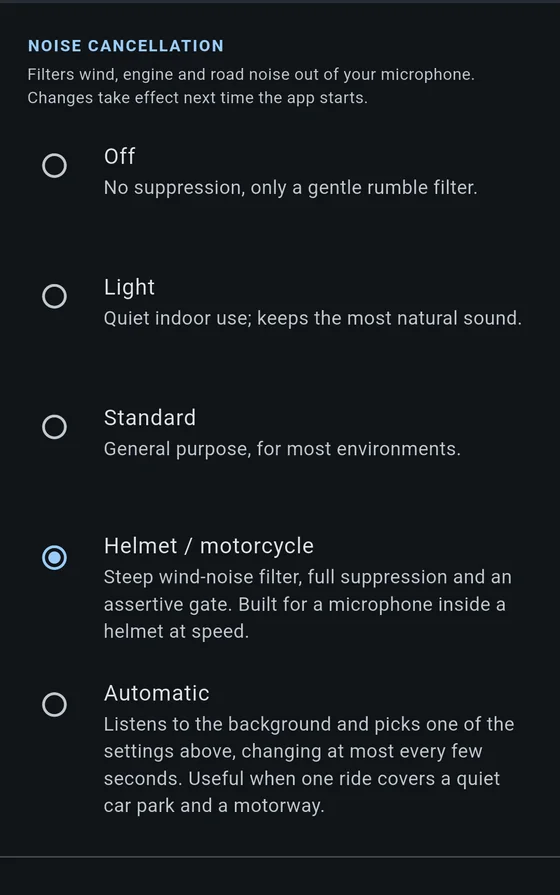
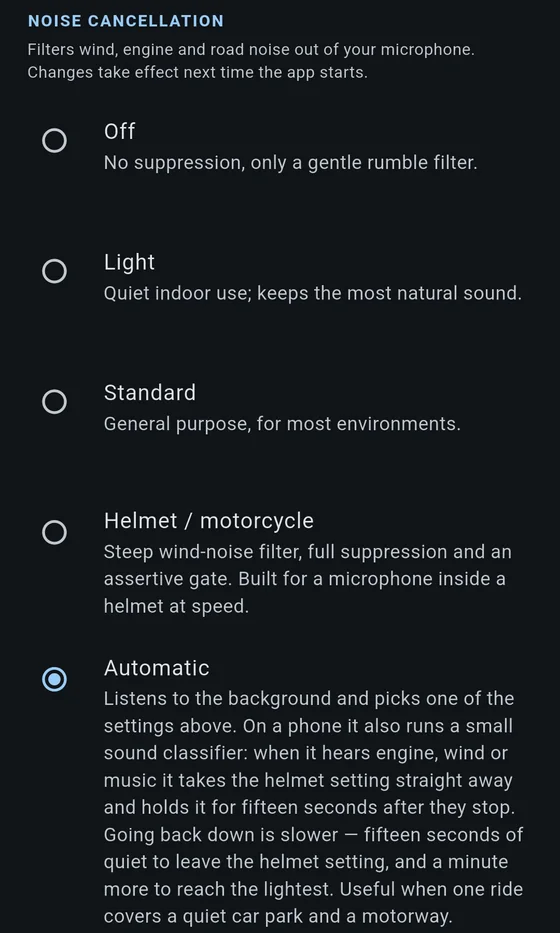
Site: what Automatic actually does now, in both languages
The settings page described Automatic as picking a profile "at most
every few seconds" and said nothing about the classifier or the
cooldowns, which is most of what it now does. It gets a "How Automatic
decides" section: the model, the immediate escalation and fifteen-second
hold, the fifteen-second and one-minute dial-downs, that it can only ever
vote for the helmet setting, and that desktop uses levels alone.

Diagnostics gains the ninth light. Background is the odd one out -- not a
stage audio passes through but the classifier itself -- so it is
explained separately, including what grey means and why the line
underneath appears.

Both changed figures retaken from the emulator: the noise section now
that the switch is gone and Automatic carries the explanation, and the
lights strip, which now shows where Automatic landed, the Background dot
and the measured cost. 130 ms per check on an emulator with no
accelerator, against 2.4 ms measured on Apple Silicon.

Publish 80 green on all four stores.

diff --git a/docs/settings.md b/docs/settings.md
@@ -185,9 +185,10 @@ effect the next time the app starts.**
   <figure>
     <img src="{{ '/assets/img/shots/settings-noise-phone.webp' | relative_url }}"
          alt="The noise cancellation section: off, light, standard, helmet and
-              automatic, each with a sentence saying what it is for, and helmet
-              selected."
-         width="560" height="895" loading="lazy" decoding="async">
+              automatic, each with a sentence saying what it is for, with
+              automatic selected and its paragraph describing the sound
+              classifier and the two cooldowns."
+         width="560" height="933" loading="lazy" decoding="async">
     <figcaption>Listed weakest to strongest, with Automatic at the end.</figcaption>
   </figure>
 </div>
@@ -200,12 +201,41 @@ effect the next time the app starts.**
 | Light | Quiet indoor use. Keeps the most natural sound. |
 | Standard | General purpose, for most environments. |
 | Helmet / motorcycle | Steep wind-noise filter, full suppression and an assertive gate. Built for a microphone inside a helmet at speed. |
-| Automatic | Listens to the background and picks one of the settings above, changing at most every few seconds. Useful when one ride covers a quiet car park and a motorway. Never chooses Off. |
+| Automatic | Listens to the background and picks one of the settings above. Useful when one ride covers a quiet car park and a motorway. Never chooses Off. |
 
 </div>
 
 Start on **Helmet** if you are riding and **Standard** if you are not, or leave
 it on **Automatic** and forget about it.
+
+### How Automatic decides
+
+Two things, and they pull in the same direction.
+
+**A sound classifier, on phones.** Automatic runs a small neural model on
+what the microphone hears — about one look per two seconds, on the phone's
+accelerator where there is one. When it hears **engine, wind or music** it takes
+the helmet setting *immediately*, without the few seconds the level-based part
+waits, and holds it for **fifteen seconds** after they stop.
+
+It is a vote for the helmet setting and nothing else. It can never choose a
+lighter one, it never touches the decision about whether to transmit, and it
+does nothing at all unless Automatic is chosen — a profile you picked by hand is
+an instruction. Nothing runs it on Windows or macOS, where Automatic uses levels
+alone.
+
+**Dialling down is slow, and slower the further down it goes.** Leaving the
+helmet setting for Standard needs **fifteen seconds** of the background actually
+asking for it; going on from Standard to Light needs **a minute more**. It walks
+down one step at a time rather than jumping, because Light barely suppresses
+anything and arriving there wrongly is the expensive mistake.
+
+Going *up* has no such wait. Being under-suppressed at speed loses you; being
+over-suppressed at a coffee stop sounds slightly processed.
+
+**Diagnostics shows where it landed** — the profile in force, and a
+**Background** light for what the classifier is saying. See
+[Diagnostics]({{ '/diagnostics.html' | relative_url }}).
 
 ## Feedback suppression
 

diff --git a/docs/diagnostics.md b/docs/diagnostics.md
@@ -46,23 +46,34 @@ switch to remember.
 <div class="shots">
   <figure>
     <img src="{{ '/assets/img/shots/diag-lights-phone.webp' | relative_url }}"
-         alt="Two rows of coloured dots labelled echo, suppressor, voice
-              detected, gate, levelling, hiss, feedback and to the server."
-         width="560" height="71" loading="lazy" decoding="async">
-    <figcaption>Green passes audio on, amber holds something back, red stops it
-    here.</figcaption>
+         alt="The profile Automatic has landed on, then two rows of coloured
+              dots labelled echo, suppressor, voice detected, gate, levelling,
+              hiss, feedback, background and to the server, and a note saying
+              background detection is running on the processor at 130
+              milliseconds per check."
+         width="560" height="170" loading="lazy" decoding="async">
+    <figcaption>Where Automatic landed, every stage of the chain, and what the
+    classifier costs on this device.</figcaption>
   </figure>
 </div>
 
 One dot per stage of the capture chain: **echo**, **suppressor**, **voice
-detected**, **gate**, **levelling**, **hiss**, **feedback** and **to the
-server**. The colours mean the same thing at every stage — green is working and
-passing audio on, amber is working but holding something back, red is stopping
-audio here, and grey is switched off and therefore has no opinion.
+detected**, **gate**, **levelling**, **hiss**, **feedback**, **background** and
+**to the server**. The colours mean the same thing at every stage — green is
+working and passing audio on, amber is working but holding something back, red
+is stopping audio here, and grey is switched off and therefore has no opinion.
 
 The last one is the one to read first. **To the server** red means your voice
 is not leaving the phone, and the dot to its left usually says which stage
 stopped it.
+
+**Background** is the odd one out: it is not a stage the audio passes through
+but the sound classifier
+[Automatic]({{ '/settings.html' | relative_url }}) runs. Green means it is
+listening and the background is clear, amber that it has heard engine, wind or
+music and is holding the helmet setting, and grey that nothing is classifying —
+because a profile was chosen by hand, or because this is a desktop, where the
+model does not run. When it is grey the line underneath says which.
 
 ## Counters
 
